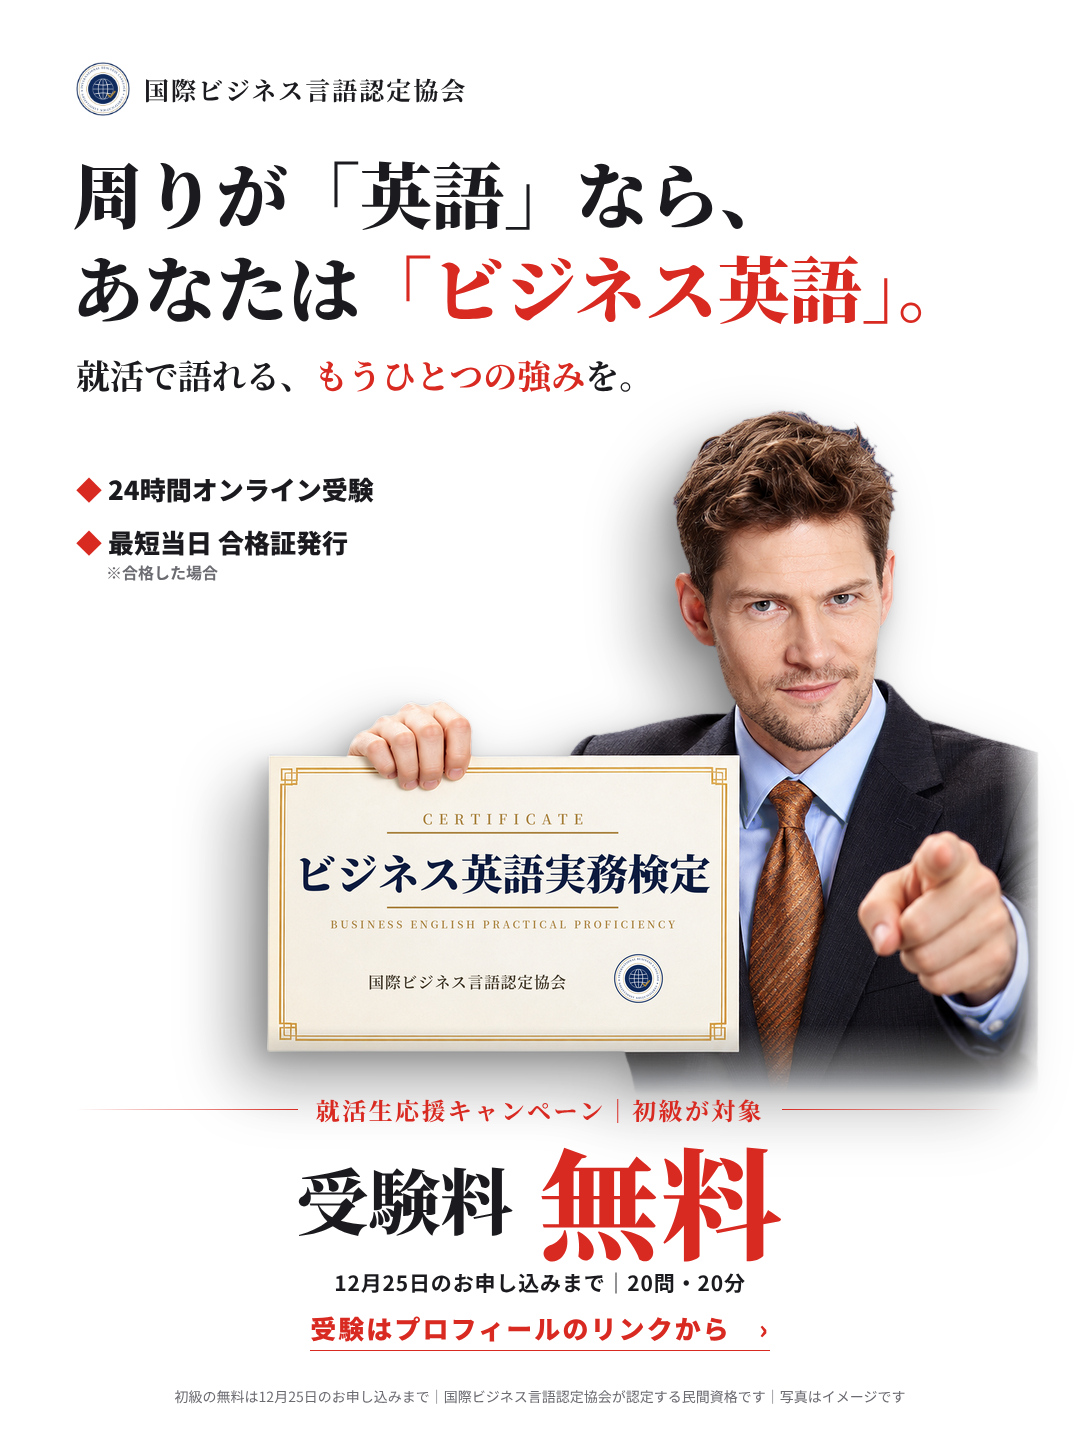
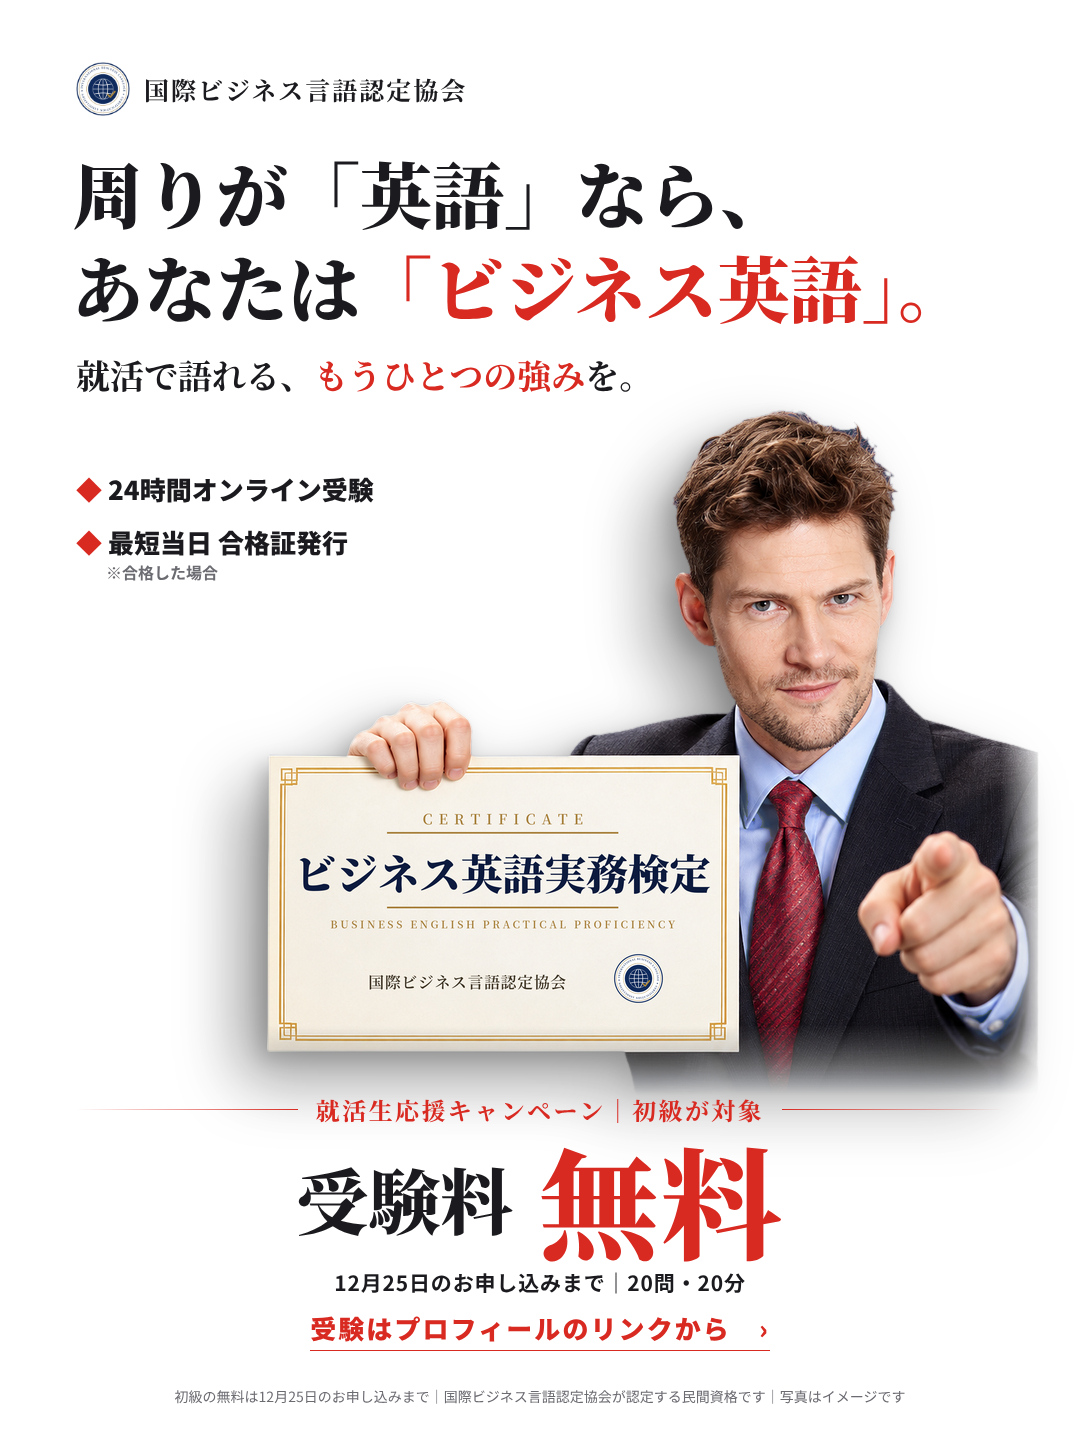
写真モデル版の真っ白版：ネクタイを赤に
Claude-Session: https://claude.ai/code/session_014p5jKzC7vmuyPAkeTgUdi2

Changed region(s): [[0.6722, 0.5312, 0.7639, 0.75]]

diff --git a/content/posters/redwhite/man_white.html b/content/posters/redwhite/man_white.html
@@ -76,7 +76,7 @@ body:before{display:none!important}
 .note{color:#6b6b72!important}
 </style></head><body>
 
-<img class="ken" src="man_wf.png"><div class="redband"></div>
+<img class="ken" src="man_wf_red.png"><div class="redband"></div>
 <div class="brand"><img src="logo.png"><div class="n">国際ビジネス言語認定協会</div></div>
 <div class="head">周りが「英語」なら、<br>あなたは<em>「ビジネス英語」。</em></div>
 <div class="sub">就活で語れる、<em>もうひとつの強み</em>を。</div>

diff --git a/log/posted.md b/log/posted.md
@@ -135,3 +135,4 @@
 - 2026-11-01 修正｜写真モデル版の真っ白版：人物の影を濃く（左下へ落ちる影）
 - 2026-11-01 修正｜写真モデル版の真っ白版：赤をオレンジ寄りの赤（#e03c1f）に（オーナー指示）
 - 2026-11-01 修正｜写真モデル版の真っ白版：赤を少し赤寄りに戻す（#d92a22）
+- 2026-11-01 修正｜写真モデル版の真っ白版：ネクタイを茶色から赤に変更（オーナー指示）
